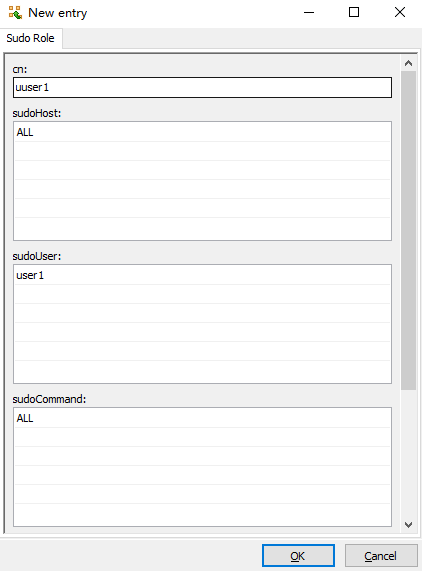
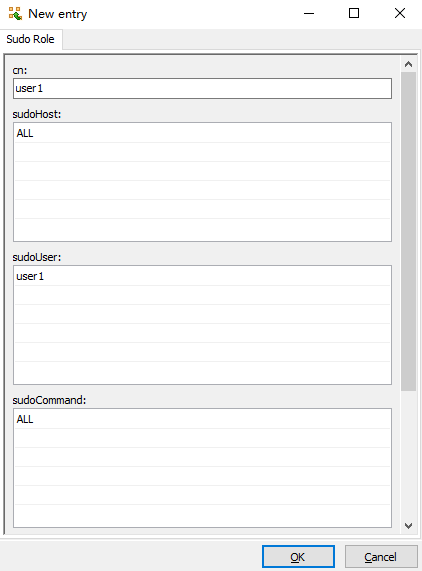
update

diff --git a/README.md b/README.md
@@ -534,7 +534,7 @@ added: "cn=defaults,ou=sudoers,dc=example,dc=local" (00000005)
 added: "ou=Users,dc=example,dc=local" (00000006)
 added: "cn=user1,ou=Users,dc=example,dc=local" (00000007)
 added: "uid=user1,ou=Users,dc=example,dc=local" (00000008)
-added: "cn=uuser1,ou=sudoers,dc=example,dc=local" (00000009)
+added: "cn=user1,ou=sudoers,dc=example,dc=local" (00000009)
 _#################### 100.00% eta   none elapsed            none fast!         
 Closing DB...
 ```
